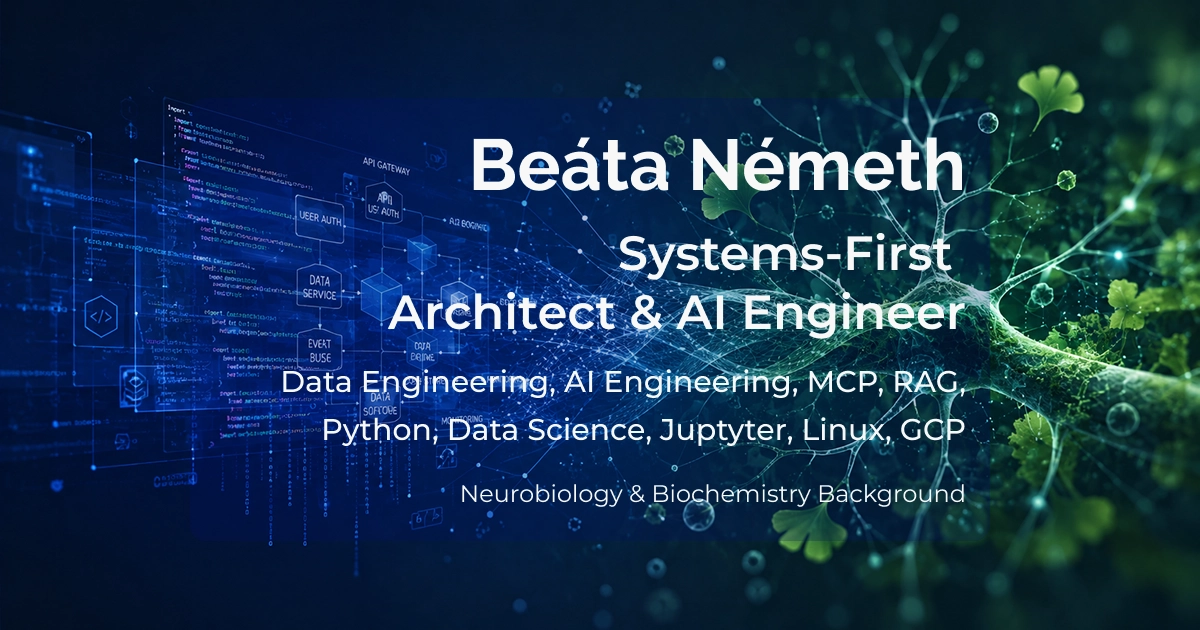
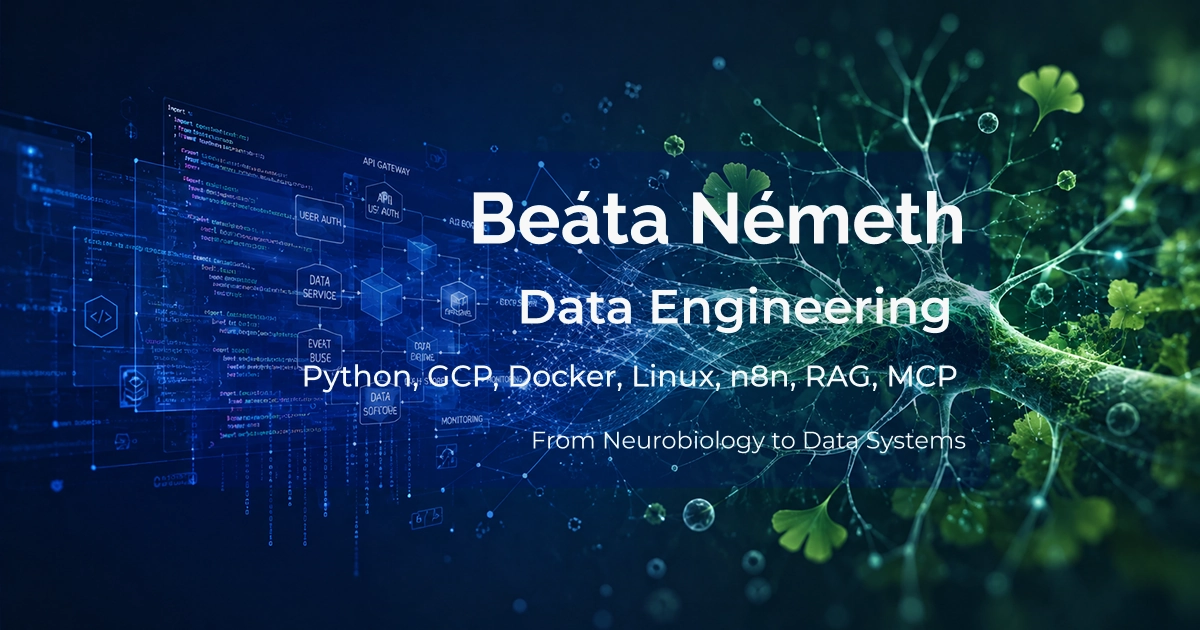
fead: update metatdata to match the data engineering focus

diff --git a/src/utils/metadata.ts b/src/utils/metadata.ts
@@ -1,13 +1,13 @@
 import type { Metadata } from 'next';
 
 export const siteMetadata: Metadata = {
-  title: 'Beata Nemeth | Systems-First Architect & AI Engineer',
+  title: 'Beata Nemeth | Data Engineering',
   description:
-    'Architecting scalable digital backbones and AI-driven automation systems. Bridging biological precision with software scalability.',
+    'A data engineering mindset, turning scattered, manual information into clean, automated data pipelines. From neurobiology research to data systems.',
   openGraph: {
-    title: 'Beata Nemeth | Systems-First Architect & AI Engineer',
+    title: 'Beata Nemeth | Data Engineering',
     description:
-      'Architecting scalable digital backbones and AI-driven automation systems. Bridging biological precision with software scalability.',
+      'A data engineering mindset, turning scattered, manual information into clean, automated data pipelines. From neurobiology research to data systems.',
     url: 'https://beatanemeth.github.io/portfolio/', // Update with your actual site URL
     siteName: 'Beata Nemeth Portfolio',
     images: [
@@ -23,9 +23,9 @@ export const siteMetadata: Metadata = {
   },
   twitter: {
     card: 'summary_large_image',
-    title: 'Beata Nemeth | Systems-First Architect & AI Engineer',
+    title: 'Beata Nemeth | Data Engineering',
     description:
-      'Architecting scalable digital backbones and AI-driven automation systems. Bridging biological precision with software scalability.',
+      'A data engineering mindset, turning scattered, manual information into clean, automated data pipelines. From neurobiology research to data systems.',
     images: ['https://beatanemeth.github.io/portfolio/og-image.webp'],
   },
 };
